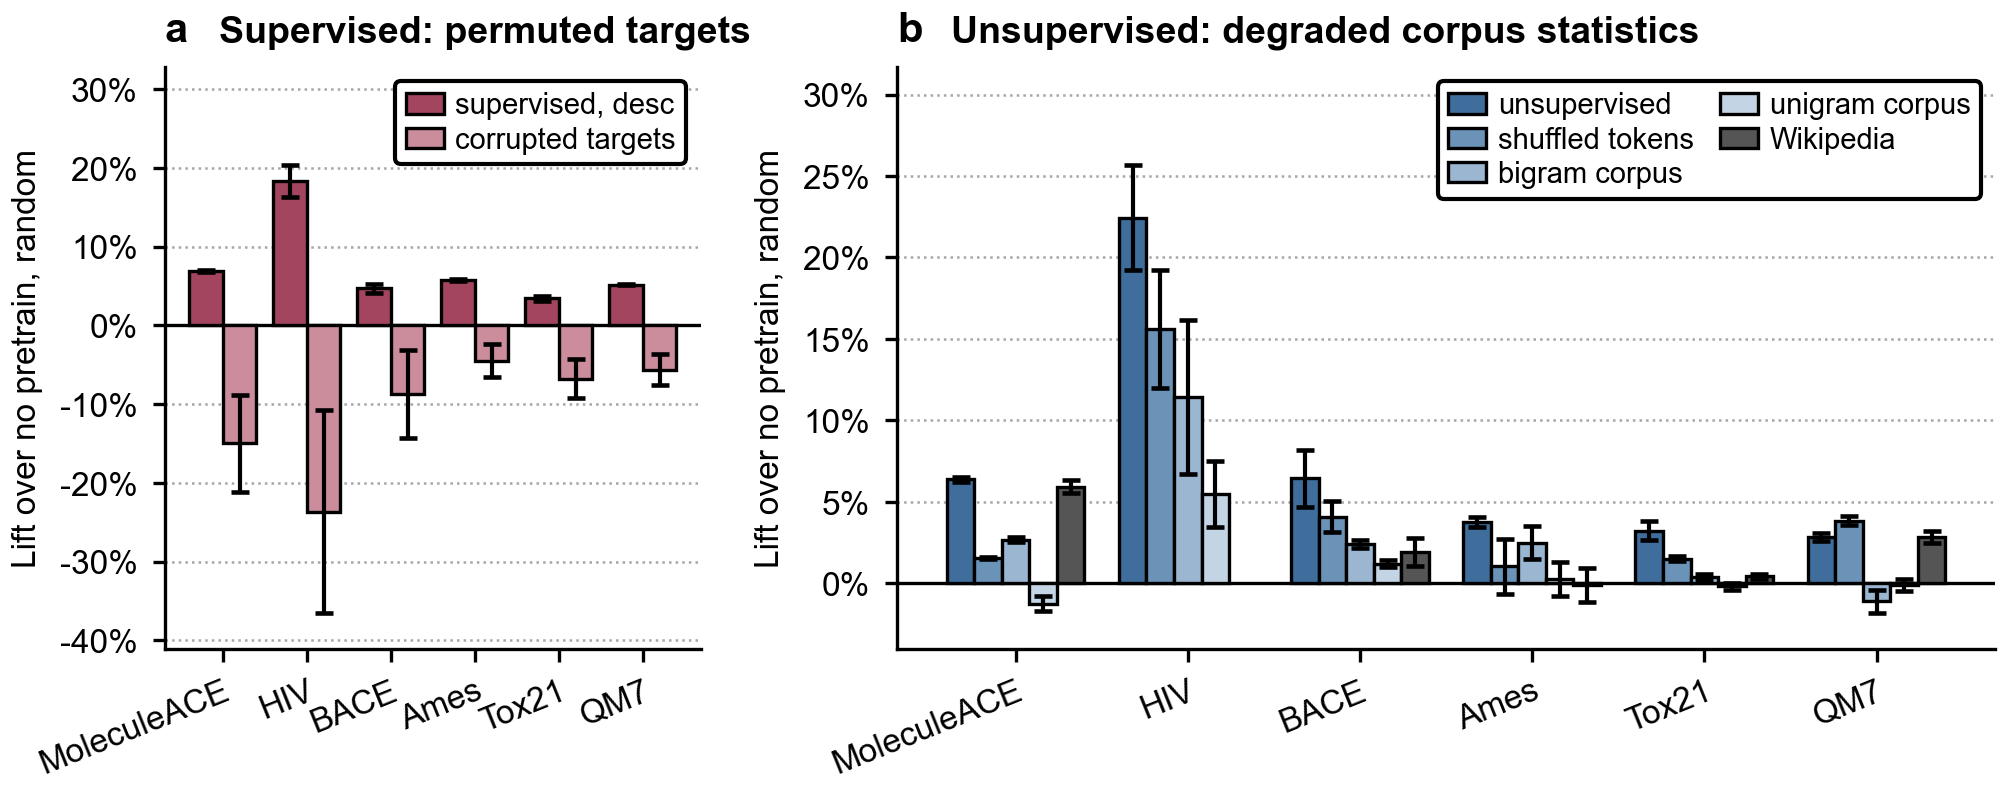
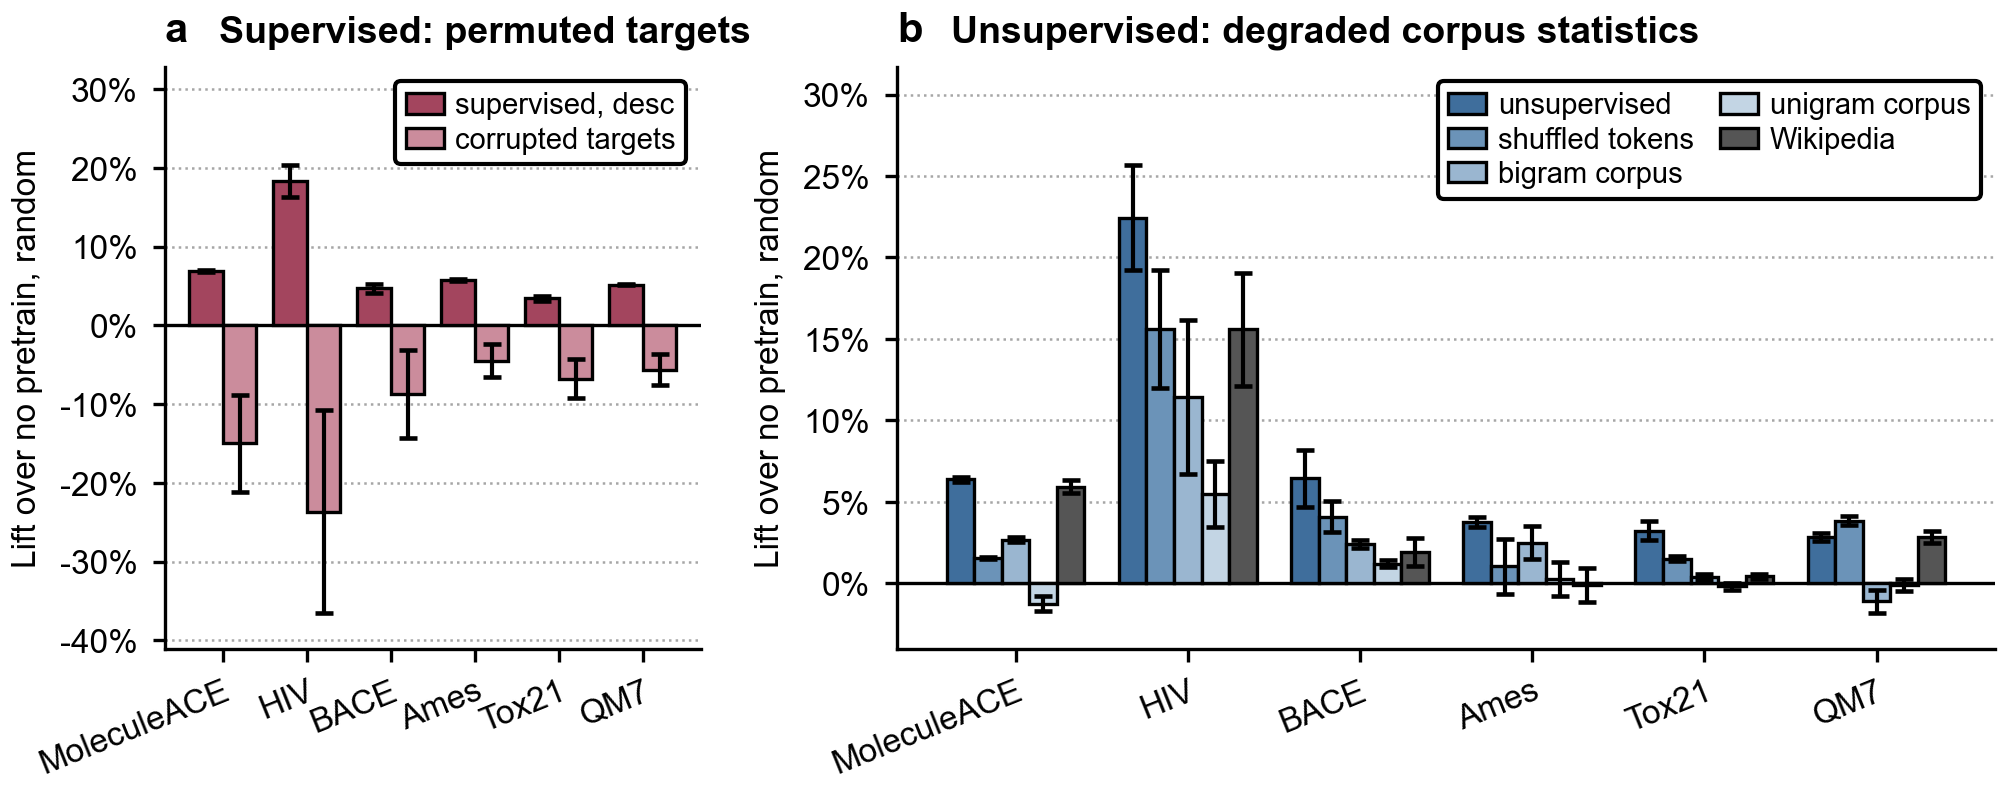
fig_E: the wiki HIV cell was measured all along, just not in the summary
Leif: "on fig E, HIV, where is the Wikipedia data it's not plotted?" It was scored. The hole came
from a derived table being narrower than its source.

HISTORY, because the hole was created by a good fix that drew one conclusion too many. The cell was
once published as a +41% lift -- English Wikipedia, with zero chemistry in it, the best arm on HIV
ahead of every fingerprint and every chemistry-pretrained model. Cause: rigor_cell matched on
(arm, dataset) without the metric, and expB carries ROC-AUC for HIV, so a 0.7624 ROC-AUC was
subtracted from a 0.5406 NEF1 floor. Two different metrics subtracted from each other.

Adding the metric filter was right and that number is still dead. What was wrong is the conclusion
recorded with it: "expB was never scored on NEF1 for HIV". It was. analysis/rigor/expB_wiki_summary
.csv does not carry nef1, but climb_v2_expB/<run>/moleculenet_cv/ does -- the same tree BACE, Tox21
and QM7 are already read from, with nef1 AND roc_auc, 5 folds x 3 seeds.

rigor_cell now falls back to the run's own CV tree when a metric is absent from the summary, and
says so when it does. VERIFIED BEFORE TRUSTING rather than assumed: the two sources agree to
0.0000 on every cell they share -- BACE 0.8218, Tox21 0.7734, QM7 199.4371 -- so this is one wave
read through a fuller path, not two waves mixed. That check is the whole difference between this
and the defect it replaces.
[…]

Changed region(s): [[0.5869, 0.3939, 0.6487, 0.7273]]

diff --git a/scripts/build_fig_E_table.py b/scripts/build_fig_E_table.py
@@ -76,6 +76,7 @@ import six_panel_aggregate as A                                    # noqa: E402 
 
 PHASE2 = ROOT / "figure_data" / "climb_v2_phase2"
 RIGOR = ROOT / "analysis" / "rigor"
+FD = ROOT / "figure_data"          # run trees, for the CV-tree fallback in rigor_cell
 OUT = ROOT / "figure_data" / "fig_E" / "fig_E_lift.csv"
 
 TASKS = ["MoleculeACE", "HIV", "BACE", "Ames", "Tox21", "QM7"]
@@ -210,6 +211,41 @@ def qm7_consistent(vals: list[float], floor_val: float, label: str) -> list[floa
     return keep
 
 
+# Run-dir prefixes searched for a summary's missing metric. The wiki arm lives in climb_v2_expB;
+# the list is explicit so a new tree has to be added deliberately rather than found by a glob.
+_CV_ROOTS = ["climb_v2_expB", "climb_v2_expA", "climb_v2_phase2"]
+
+
+def _cv_tree_cell(arm: str, task: str, metric: str):
+    """(mean, sd, n_seeds) for one cell read from the RUN'S OWN moleculenet_cv/, or None.
+
+    Pools the three pretraining-seed dirs the same way the summaries do, and reads the PLAIN
+    metric rows (never `<metric>_cell`) -- eval_v2 ensembles the head seeds before scoring, and
+    that ensembled value is the point estimate every other panel here uses.
+    """
+    import csv as _csv
+    import statistics as _st
+    base = {"wiki_real": "wiki_real_8M"}.get(arm, arm)
+    per_seed = []
+    for d in seeds(base):
+        for root in _CV_ROOTS:
+            f = FD / root / d / "moleculenet_cv" / "moleculenet_summary.csv"
+            if not f.exists():
+                continue
+            v = [float(r["main_value"]) for r in _csv.DictReader(f.open())
+                 if r["dataset"] == task and r["main_metric"] == metric
+                 and r["head_seed"] not in ("MEAN", "STD")
+                 and r["main_value"] not in ("", "nan")]
+            if v:
+                per_seed.append(_st.mean(v))
+            break
+    if not per_seed:
+        return None
+    return (_st.mean(per_seed),
+            _st.stdev(per_seed) if len(per_seed) > 1 else 0.0,
+            len(per_seed))
+
+
 def agg(vals: list[float]) -> tuple[float, float, int]:
     v = [x for x in vals if np.isfinite(x)]
     if not v:
@@ -248,11 +284,29 @@ def main() -> None:
         m = METRIC[task]
         r = df[(df.arm == arm) & (df.dataset == task) & (df.metric == m)]
         if not len(r):
+            # FALL BACK TO THE RUN'S OWN CV TREE BEFORE GIVING UP. The summary is a DERIVED view
+            # and can be narrower than its source: expB_wiki_summary.csv carries roc_auc only for
+            # HIV, while climb_v2_expB/<run>/moleculenet_cv/ carries nef1 AND roc_auc, from the
+            # same evaluation. Returning NaN here was right when it stopped a ROC-AUC being
+            # subtracted from a NEF1 floor (+41% "lift" for zero-chemistry Wikipedia), but the
+            # conclusion recorded with that fix -- "expB was never scored on NEF1 for HIV" -- was
+            # wrong: it was scored, the summary just does not carry it.
+            #
+            # SAFE BECAUSE THE TWO SOURCES ARE THE SAME NUMBERS, verified rather than assumed: on
+            # every cell they share, wiki agrees to 0.0000 (BACE 0.8218, Tox21 0.7734, QM7
+            # 199.4371). So this is one wave read through a fuller path, not two waves mixed.
+            fb = _cv_tree_cell(arm, task, m)
+            if fb is not None:
+                print(f"  [rigor_cell] {arm} / {task}: {m!r} absent from the summary, "
+                      f"read from moleculenet_cv/ instead -> {fb[0]:.4f} (n={fb[2]})")
+                return fb
             print(f"  [rigor_cell] {arm} / {task}: no {m!r} row "
                   f"(has {sorted(df[(df.arm == arm) & (df.dataset == task)].metric.unique())}) "
                   f"-- cell dropped")
             return np.nan, np.nan, 0
         return float(r["mean"].iloc[0]), float(r["std"].iloc[0]), int(r["n_seeds"].iloc[0])
+
+    # ---------------- CV-tree fallback ----------------
 
     # ---------------- floors ----------------
     # benchmark panels: one shared random-init frozen control, same wave as the corrupted arms

diff --git a/figures/fig_E.py b/figures/fig_E.py
@@ -23,7 +23,7 @@ objective bought nothing".
       wiki             -- English Wikipedia text: real language, ZERO chemistry
     Reading: the benefit is NOT specific to real chemistry. Shuffled tokens keep most of it and are
     the BEST rung on 3 of 6 panels; Wikipedia -- with no molecules in it at all -- is positive on
-    5 of 6 and actually beats the real corpus on MoleculeACE. Only the unigram rung, which destroys
+    5 of 6, beats the real corpus on MoleculeACE, and posts its LARGEST lift on HIV (+15.6%). Only the unigram rung, which destroys
     all sequential structure, collapses to the floor on every panel (-1.2 to +1.2%). What the MLM
     buys is largely a generic sequence prior, not chemical knowledge.
 
@@ -46,8 +46,17 @@ fold SD, which would not be the same estimand. As of 2026-08-27 NO cell triggers
 are 3-seed. This paragraph previously described `corrupt_mtr_8M` on BACE / Tox21 / QM7 and Ames, an
 arm that is no longer in the table at all, and named CBS, which is not in TASKS -- so it documented
 a state the figure had left. The arms actually drawn are real / targets_permuted (supervised) and
-real / shuffled / bigram / unigram / wiki (unsupervised); wiki has no HIV row and that CELL is blank
-rather than whiskerless, because its value is absent too.
+real / shuffled / bigram / unigram / wiki (unsupervised).
+
+THE WIKI HIV CELL IS NOW FILLED, and how it was empty is worth keeping. It was once published as a
++41% lift -- zero-chemistry Wikipedia as the best arm on HIV, ahead of every fingerprint -- because
+the lookup matched on (arm, dataset) without the metric: expB carries ROC-AUC for HIV, so a 0.7624
+ROC-AUC was subtracted from a 0.5406 NEF1 floor. Adding the metric filter correctly killed that
+number, but the conclusion recorded alongside it -- "expB was never scored on NEF1 for HIV" -- was
+wrong. The SUMMARY does not carry nef1; the run's own moleculenet_cv/ tree does, from the same
+evaluation, and rigor_cell now falls back to it. Verified before trusting: the two sources agree to
+0.0000 on every cell they share (BACE 0.8218, Tox21 0.7734, QM7 199.4371), so this is one wave read
+through a fuller path rather than two waves mixed. HIV NEF1 = 0.6249 +/- 0.0187 over 3 seeds.
 
 Run:  python3 scripts/build_fig_E_table.py && python3 -m figures.fig_E
 """
